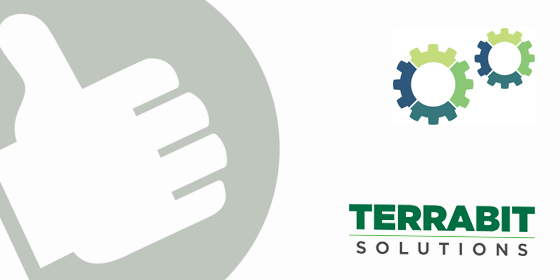
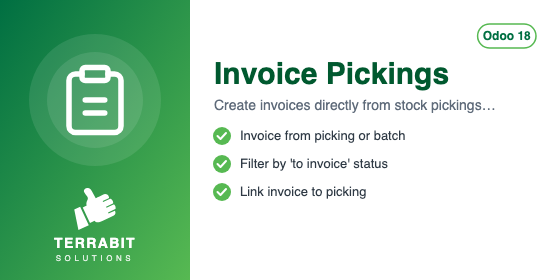
[IMP] deltatech_invoice_picking: English summary, as on 19.0
Summary (and description where it was in Romanian) from 19.0, own icon and
Apps Store banner as on 19.0 with the Odoo 18 pill, support address,
HISTORY entry.

diff --git a/deltatech_invoice_picking/static/description/index.html b/deltatech_invoice_picking/static/description/index.html
@@ -3,7 +3,7 @@
 <div class="text-center rounded-4 shadow px-4 pt-4 pb-3 mt-2 mb-4" style="background-color:#006F42;color:#ffffff;">
   <div class="mb-3"><span class="d-inline-block rounded-3 p-2" style="background-color:#ffffff;"><img src="icon.png" alt="Invoice Pickings" style="width:72px;height:72px;border:none;"/></span></div>
   <h1 class="fw-bold mb-3" style="color:#ffffff;font-size:42px;line-height:1.08;letter-spacing:-0.5px;border:none;">Invoice Pickings</h1>
-  <p class="mx-auto mb-4" style="font-size:19px;color:#cdeccf;max-width:620px;line-height:1.5;">Facturare livrari</p>
+  <p class="mx-auto mb-4" style="font-size:19px;color:#cdeccf;max-width:620px;line-height:1.5;">Create invoices directly from stock pickings or batch transfers</p>
   <div>
     <span class="d-inline-block rounded-pill fw-bold m-1" style="background-color:#00432a;color:#ffffff;padding:8px 16px;font-size:12px;">Odoo 18.0</span>
     <span class="d-inline-block rounded-pill fw-semibold m-1" style="background-color:#00432a;color:#ffffff;padding:8px 16px;font-size:12px;">Sales</span>
@@ -20,6 +20,19 @@
   </div>
 </div>
 
+<ul class="nav nav-pills justify-content-center mb-4 pb-3 border-bottom" style="--bs-nav-pills-link-active-bg:#006F42;">
+  <li class="nav-item mx-1 mb-2">
+    <a class="nav-link active fw-semibold rounded-pill border" id="tb-tab-overview"
+       data-bs-toggle="pill" data-bs-target="#tb-panel-overview" href="#tb-panel-overview"
+       style="padding:10px 22px;">Overview</a>
+  </li>
+  <li class="nav-item mx-1 mb-2">
+    <a class="nav-link fw-semibold rounded-pill border" id="tb-tab-versions"
+       data-bs-toggle="pill" data-bs-target="#tb-panel-versions" href="#tb-panel-versions"
+       style="padding:10px 22px;">Versions</a>
+  </li>
+</ul>
+<div class="tab-content">
 <div class="tab-pane fade show active py-2" id="tb-panel-overview" style="font-size:16px;line-height:1.65;color:#212529;font-weight:400;">
 <h2 class="fw-bold mb-3" style="border:none;border-left:4px solid #57B952;padding-left:16px;font-size:24px;letter-spacing:-0.3px;line-height:1.2;">Overview</h2>
 <ul>
@@ -41,6 +54,16 @@ linked pickings.</strong></li>
 </ul>
 </li>
 </ul>
+</div>
+<div class="tab-pane fade py-2" id="tb-panel-versions" style="font-size:16px;line-height:1.65;color:#212529;font-weight:400;">
+<h2 class="fw-bold mb-3" style="border:none;border-left:4px solid #57B952;padding-left:16px;font-size:24px;letter-spacing:-0.3px;line-height:1.2;">Versions</h2>
+<h2 class="fw-bold mt-4 mb-3" style="border:none;border-left:4px solid #57B952;padding-left:16px;font-size:24px;letter-spacing:-0.3px;line-height:1.2;">18.0.1.0.11 (2026-10-07)</h2>
+<ul>
+<li>Summary in English, as the Apps Store requires, the same as the banner and as on 19.0;
+  support address.</li>
+<li>Own module icon and Apps Store banner, the same as on 19.0.</li>
+</ul>
+</div>
 </div>
 
 <div class="row text-center mt-4 mb-1 g-3">

diff --git a/deltatech_invoice_picking/__manifest__.py b/deltatech_invoice_picking/__manifest__.py
@@ -4,10 +4,11 @@
 
 {
     "name": "Invoice Pickings",
-    "version": "18.0.1.0.10",
+    "version": "18.0.1.0.11",
     "author": "Terrabit, Dorin Hongu",
     "website": "https://www.terrabit.ro",
-    "summary": "Facturare livrari",
+    "support": "support@terrabit.ro",
+    "summary": "Create invoices directly from stock pickings or batch transfers",
     "category": "Sales",
     "depends": [
         "account",

diff --git a/deltatech_invoice_picking/readme/HISTORY.md b/deltatech_invoice_picking/readme/HISTORY.md
@@ -1,0 +1,5 @@
+## 18.0.1.0.11 (2026-10-07)
+
+- Summary in English, as the Apps Store requires, the same as the banner and as on 19.0;
+  support address.
+- Own module icon and Apps Store banner, the same as on 19.0.
